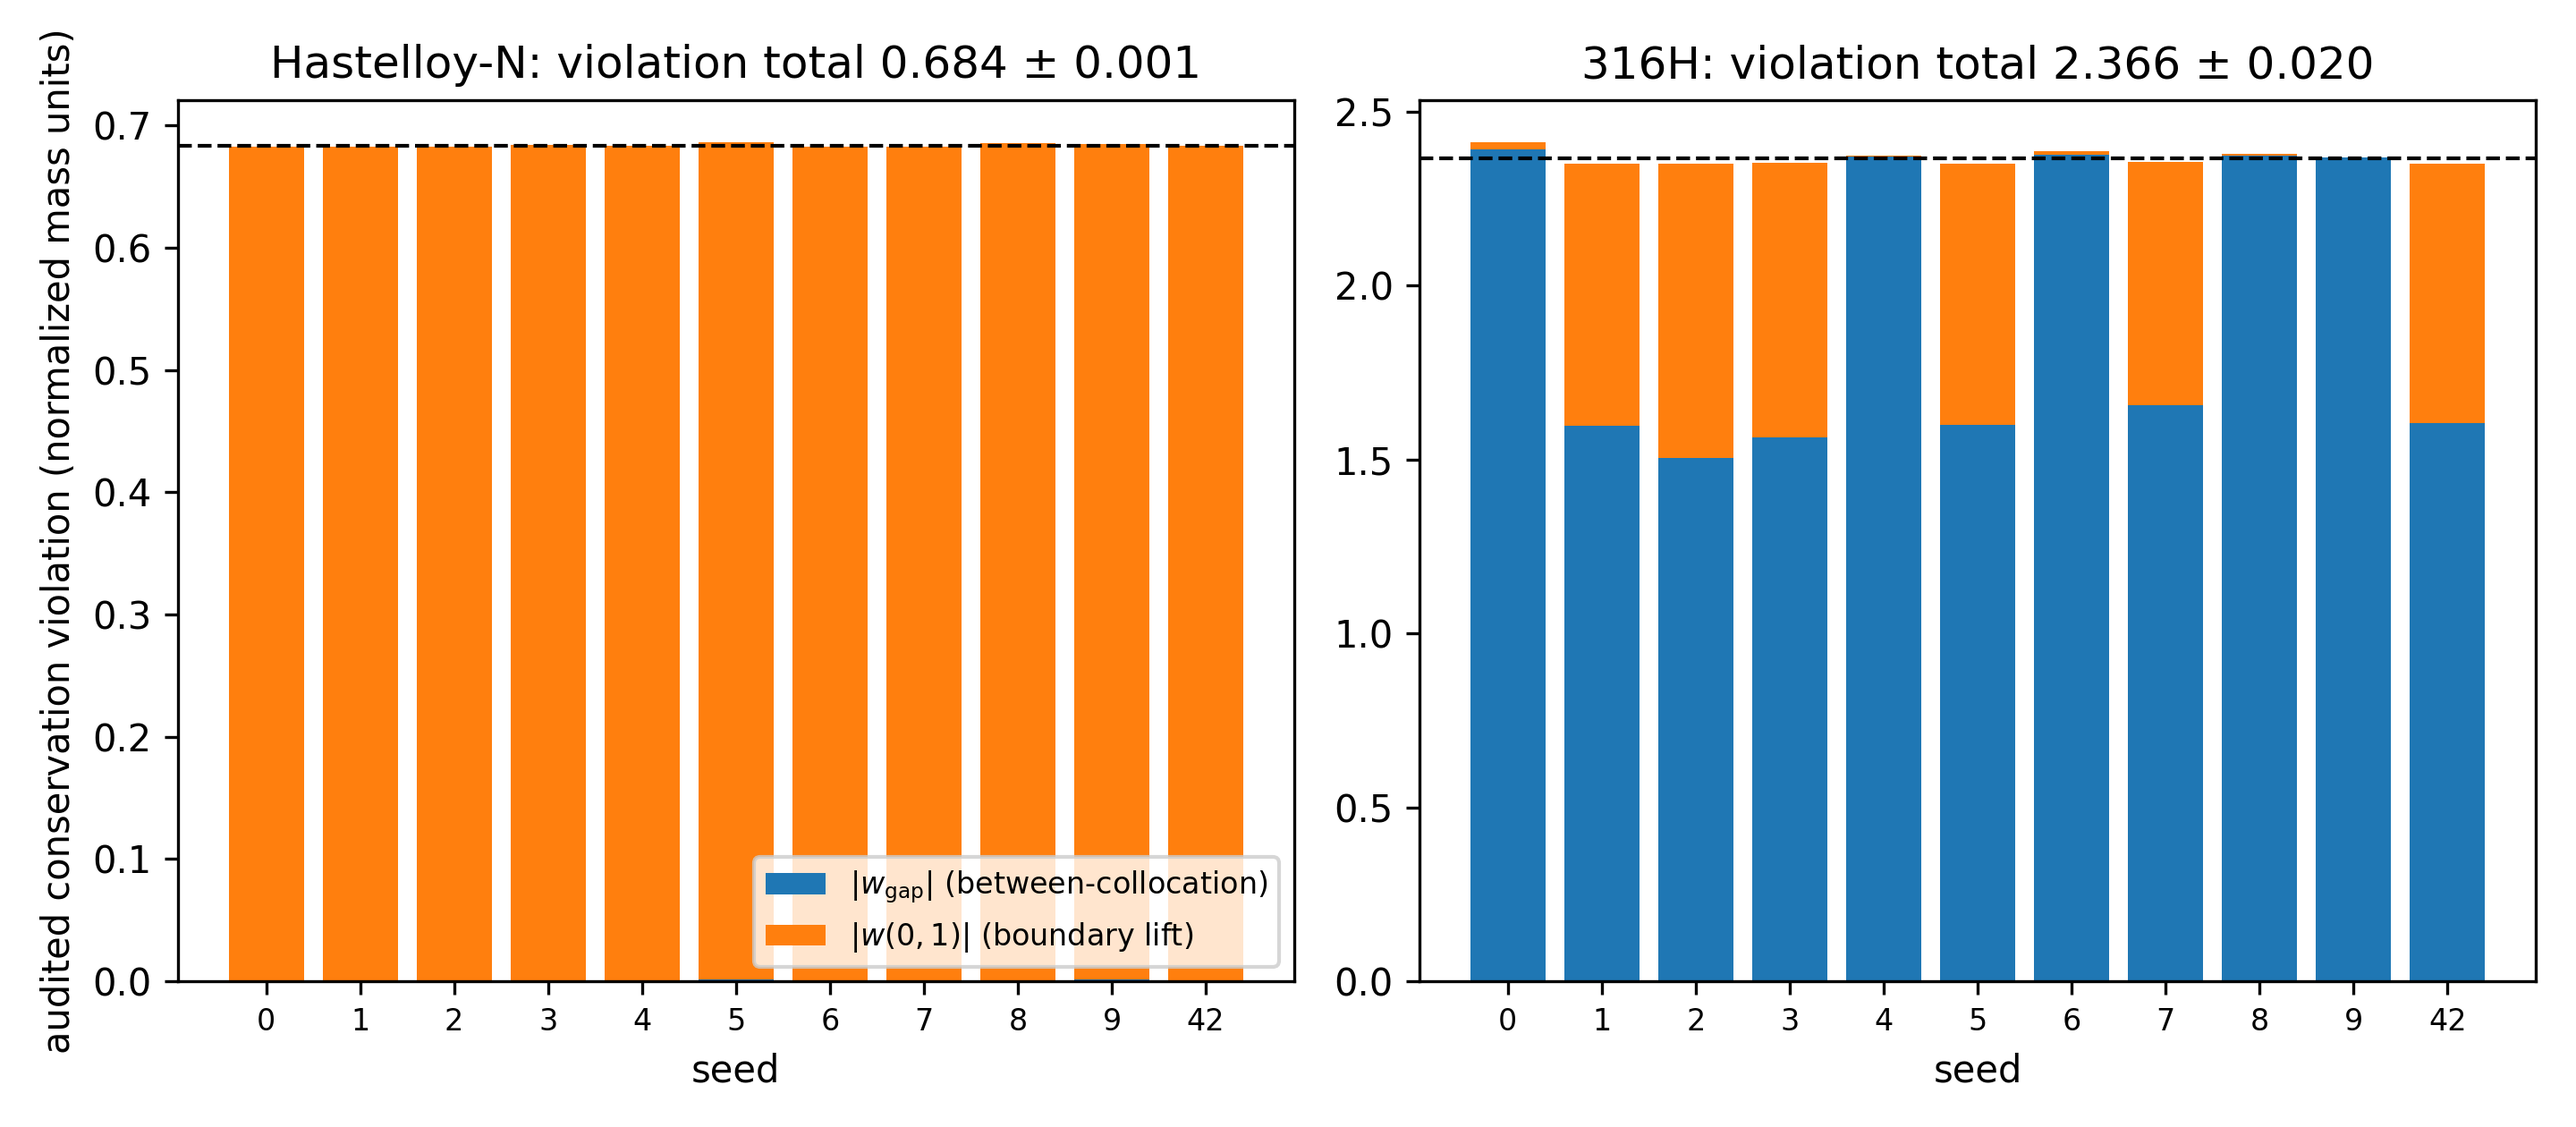
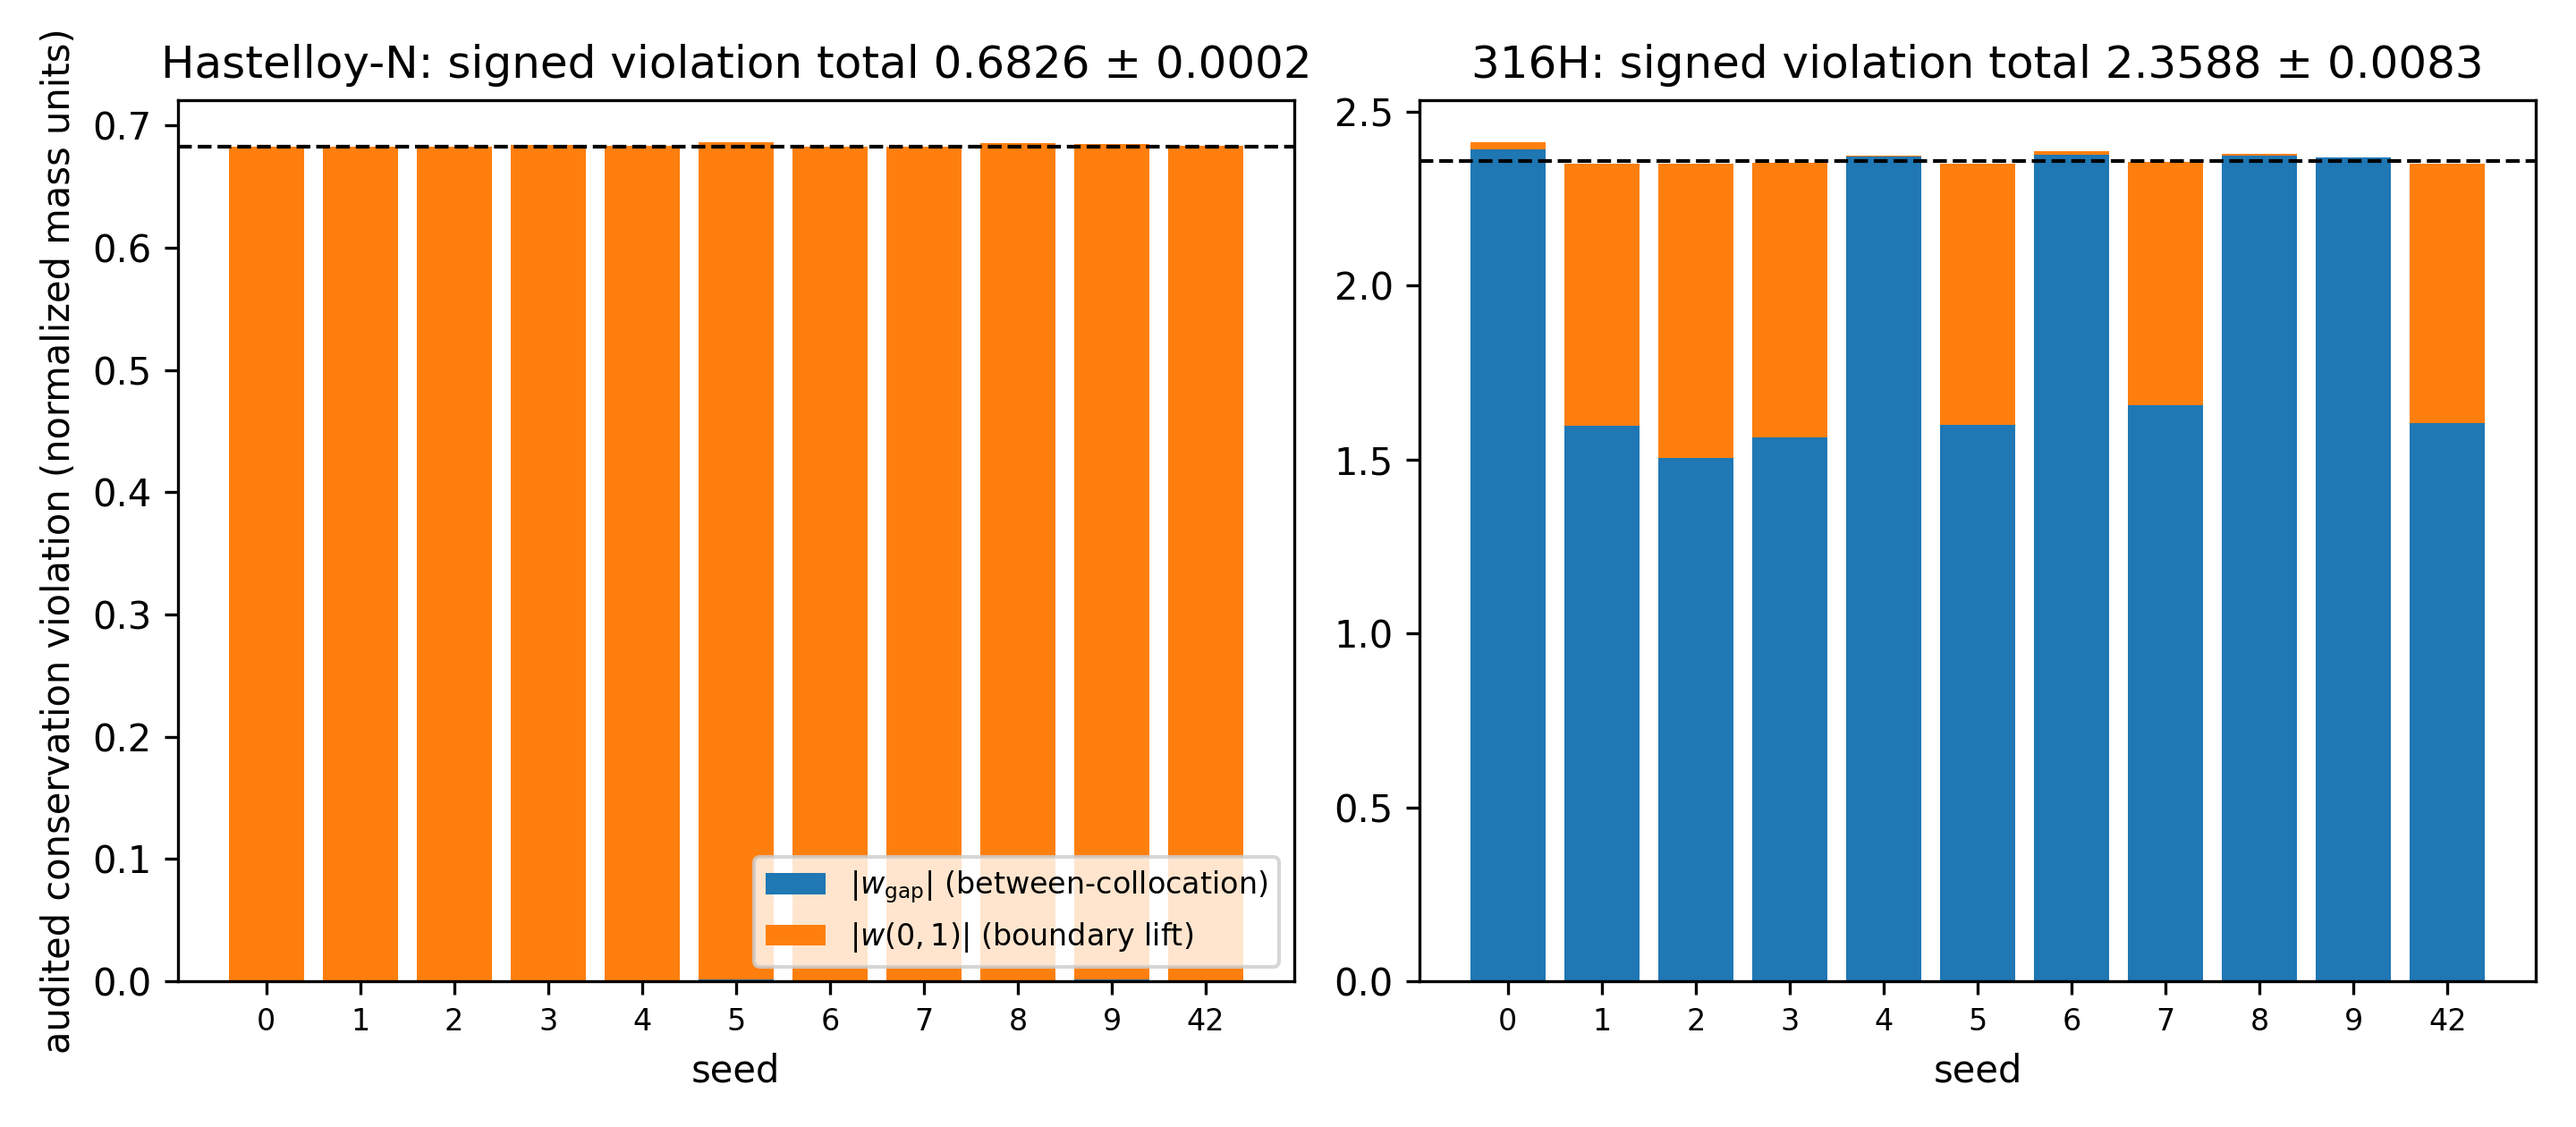
Fig. 5: annotate the signed conserved total (reporting convention of Section 4.3)

Changed region(s): [[0.0625, 0.031, 0.5, 0.0929], [0.5625, 0.031, 0.9688, 0.0929], [0.5625, 0.1238, 0.9688, 0.1548]]

diff --git a/tools/make_figs_all.py b/tools/make_figs_all.py
@@ -106,6 +106,10 @@ DELTA = {
 # ------------------------------------------------------------------ figures
 def fig1(model, cfg):
     fig, ax = plt.subplots(figsize=(6.2, 4.4))
+    # +-1 sigma plateau-scatter band (sigma ~ 1.25 wt%, Section 4.1): the noise
+    # level that sets the identifiability limits of Section S6.
+    ax.axhspan(cfg["C_bulk"] - 1.25, cfg["C_bulk"] + 1.25, color="0.92",
+               zorder=0, label="±1σ plateau scatter")
     ax.plot(cfg["depth_um"], cfg["Cr_wt"], "o", ms=5, color="0.25",
             label="digitized EDS data (Zheng et al.)")
     xd, Cr = profile_curve(model, cfg)
@@ -201,9 +205,9 @@ def fig5():
         x = np.arange(len(rows))
         ax.bar(x, gap, color="tab:blue", label=r"$|w_\mathrm{gap}|$ (between-collocation)")
         ax.bar(x, w0, bottom=gap, color="tab:orange", label=r"$|w(0,1)|$ (boundary lift)")
-        tot = [g + w for g, w in zip(gap, w0)]
+        tot = [r["audit"]["w_pred_at_x0_t1"] + r["audit"]["w_gap"] for r in rows]
         ax.axhline(st.mean(tot), color="k", lw=1.0, ls="--")
-        ax.set_title(f"{alloy}: violation total {st.mean(tot):.3f} \u00b1 {st.stdev(tot):.3f}")
+        ax.set_title(f"{alloy}: signed violation total {st.mean(tot):.4f} \u00b1 {st.stdev(tot):.4f}")
         ax.set_xticks(x); ax.set_xticklabels([str(r["seed"]) for r in rows], fontsize=8)
         ax.set_xlabel("seed")
     axes[0].set_ylabel("audited conservation violation (normalized mass units)")
